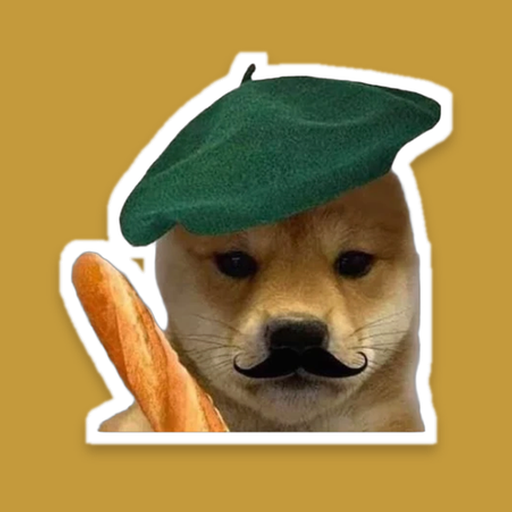
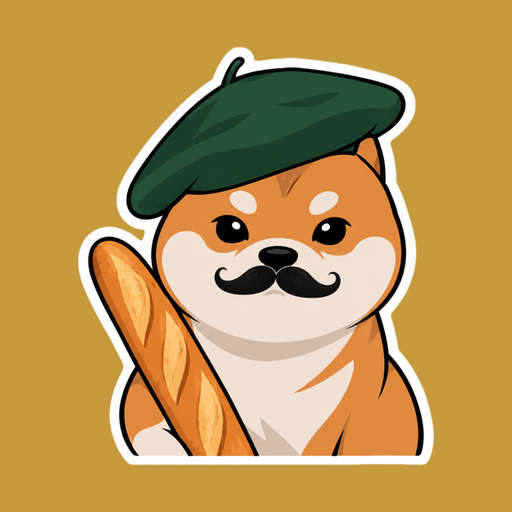
Replace the mascot with the original illustration, in three poses
The beret-and-baguette pose is the app's face (home, Premium, launcher
icon, widget, store graphics); the sunglasses pose plays the
celebrations; the thinking pose shows while the AI works and on the
translator's first screen. scripts/cut_mascot.py cuts each pose out of
its gold background.

diff --git a/lib/core/widgets/mascot.dart b/lib/core/widgets/mascot.dart
@@ -5,32 +5,55 @@ import 'package:flutter_animate/flutter_animate.dart';
 
 import 'package:french_pass/core/theme/app_theme.dart';
 
-/// The FrenchPass mascot: a shiba in a beret, with a moustache and a
-/// baguette, cut out as a sticker.
+/// The mascot's three moods, one per moment.
+enum MascotPose {
+  /// Beret and baguette: the app's face (home, Premium, icon, widget).
+  baguette('assets/images/mascot.png', 'Perrito francés con boina y baguette'),
+
+  /// Sunglasses: something earned (a word said well, a lesson finished).
+  cool('assets/images/mascot_cool.png', 'Perrito francés con gafas de sol'),
+
+  /// Reading glasses, paw on chin: the AI is working, or there is
+  /// something to think about.
+  thinking('assets/images/mascot_thinking.png',
+      'Perrito francés pensando, con gafas');
+
+  final String asset;
+  final String label;
+  const MascotPose(this.asset, this.label);
+}
+
+/// The FrenchPass mascot: a shiba in a beret with a moustache, cut out as a
+/// sticker.
 ///
-/// It only shows up when the learner has earned it -- a word said clearly,
-/// a conversation finished -- so it stays a reward rather than wallpaper.
+/// It shows up at moments that mean something -- a word said clearly, a
+/// conversation finished, the AI thinking -- so it never turns into
+/// wallpaper.
 class MascotSticker extends StatelessWidget {
   final double size;
+  final MascotPose pose;
 
   /// Resting tilt in radians; stickers are never stuck on perfectly
   /// straight.
   final double tilt;
 
-  const MascotSticker({super.key, this.size = 96, this.tilt = -0.08});
-
-  static const asset = 'assets/images/mascot.png';
+  const MascotSticker({
+    super.key,
+    this.size = 96,
+    this.pose = MascotPose.baguette,
+    this.tilt = -0.08,
+  });
 
   @override
   Widget build(BuildContext context) {
     return Transform.rotate(
       angle: tilt,
       child: Image.asset(
-        asset,
+        pose.asset,
         width: size,
         height: size,
         filterQuality: FilterQuality.medium,
-        semanticLabel: 'Perrito francés con boina y baguette',
+        semanticLabel: pose.label,
       ),
     );
   }
@@ -76,7 +99,7 @@ class MascotCelebration extends StatelessWidget {
                     ),
               ),
             ),
-          MascotSticker(size: size),
+          MascotSticker(size: size, pose: MascotPose.cool),
         ],
       ),
     );
@@ -128,8 +151,8 @@ class _Bubble extends StatelessWidget {
   Widget build(BuildContext context) {
     final p = context.palette;
     return Container(
-      padding:
-          const EdgeInsets.symmetric(horizontal: Insets.lg, vertical: Insets.sm),
+      padding: const EdgeInsets.symmetric(
+          horizontal: Insets.lg, vertical: Insets.sm),
       decoration: BoxDecoration(
         color: p.gold,
         borderRadius: BorderRadius.circular(Radii.pill),

diff --git a/lib/features/tutor/presentation/widgets/study_widgets.dart b/lib/features/tutor/presentation/widgets/study_widgets.dart
@@ -3,6 +3,7 @@ import 'package:flutter_animate/flutter_animate.dart';
 
 import 'package:french_pass/core/theme/app_theme.dart';
 import 'package:french_pass/core/widgets/app_widgets.dart';
+import 'package:french_pass/core/widgets/mascot.dart';
 import 'package:french_pass/core/widgets/tts_playback_mixin.dart';
 import 'package:french_pass/features/tutor/domain/saved_session.dart';
 import 'package:french_pass/features/tutor/presentation/widgets/phrase_practice.dart';
@@ -327,35 +328,37 @@ class StudySkeleton extends StatelessWidget {
           ),
         );
     final calm = MediaQuery.disableAnimationsOf(context);
-    final body = Semantics(
+    final bars = Column(
+      crossAxisAlignment: CrossAxisAlignment.start,
+      children: [
+        bar(0.9, 16),
+        bar(0.6, 16),
+        const SizedBox(height: Insets.lg),
+        bar(1, 56),
+        bar(1, 56),
+      ],
+    );
+    return Semantics(
       label: 'Analizando la frase',
       child: Column(
         crossAxisAlignment: CrossAxisAlignment.start,
         children: [
           Row(
             children: [
-              SizedBox(
-                width: 14,
-                height: 14,
-                child: CircularProgressIndicator(strokeWidth: 2, color: p.gold),
-              ),
+              const MascotSticker(size: 44, pose: MascotPose.thinking, tilt: 0),
               const SizedBox(width: Insets.sm),
               Text('Analizando la frase…', style: context.texts.bodySmall),
             ],
           ),
           const SizedBox(height: Insets.lg),
-          bar(0.9, 16),
-          bar(0.6, 16),
-          const SizedBox(height: Insets.lg),
-          bar(1, 56),
-          bar(1, 56),
+          if (calm)
+            bars
+          else
+            bars.animate(onPlay: (c) => c.repeat()).shimmer(
+                duration: 1400.ms, color: p.gold.withValues(alpha: 0.12)),
         ],
       ),
     );
-    if (calm) return body;
-    return body
-        .animate(onPlay: (c) => c.repeat())
-        .shimmer(duration: 1400.ms, color: p.gold.withValues(alpha: 0.12));
   }
 }
 

diff --git a/lib/features/translator/presentation/pages/translator_page.dart b/lib/features/translator/presentation/pages/translator_page.dart
@@ -7,6 +7,7 @@ import 'package:french_pass/core/di/injection.dart';
 import 'package:french_pass/core/services/tts_service.dart';
 import 'package:french_pass/core/theme/app_theme.dart';
 import 'package:french_pass/core/widgets/app_widgets.dart';
+import 'package:french_pass/core/widgets/mascot.dart';
 import 'package:french_pass/core/widgets/tts_playback_mixin.dart';
 import 'package:french_pass/features/premium/data/usage_service.dart';
 import 'package:french_pass/features/translator/data/translator_repository.dart';
@@ -140,12 +141,7 @@ class _TranslatorViewState extends State<_TranslatorView> {
                         onDelete: context.read<TranslatorCubit>().delete,
                       )
                     else
-                      const InfoNotice(
-                        icon: Icons.lightbulb_outline_rounded,
-                        message: 'Prueba con algo que dirías hoy: "Quiero '
-                            'un café con leche, por favor" o "Llego tarde '
-                            'porque había tráfico".',
-                      ),
+                      const _FirstTime(),
                   ],
                 ),
               ),
@@ -485,4 +481,26 @@ class _History extends StatelessWidget {
       ],
     );
   }
+}
+
+/// Before the first translation: an example to copy the idea from.
+class _FirstTime extends StatelessWidget {
+  const _FirstTime();
+
+  @override
+  Widget build(BuildContext context) => AppCard(
+        child: Row(
+          children: [
+            const MascotSticker(size: 64, pose: MascotPose.thinking, tilt: 0),
+            const SizedBox(width: Insets.md),
+            Expanded(
+              child: Text(
+                'Prueba con algo que dirías hoy: "Quiero un café con leche, '
+                'por favor" o "Llego tarde porque había tráfico".',
+                style: context.texts.bodySmall,
+              ),
+            ),
+          ],
+        ),
+      );
 }

diff --git a/lib/features/tutor/presentation/pages/tutor_session_page.dart b/lib/features/tutor/presentation/pages/tutor_session_page.dart
@@ -226,11 +226,7 @@ class _Connecting extends StatelessWidget {
       children: [
         Row(
           children: [
-            SizedBox(
-              width: 18,
-              height: 18,
-              child: CircularProgressIndicator(strokeWidth: 2, color: p.gold),
-            ),
+            const MascotSticker(size: 52, pose: MascotPose.thinking, tilt: 0),
             const SizedBox(width: Insets.md),
             Text('Conectando con tu tutor…', style: context.texts.bodyMedium),
           ],

diff --git a/scripts/cut_mascot.py b/scripts/cut_mascot.py
@@ -1,0 +1,65 @@
+"""Cuts a mascot sticker out of its flat background.
+
+usage: python scripts/cut_mascot.py <input.png> <output.png> [size]
+
+The artwork is a sticker (white outline) on a flat gold field. Everything
+connected to the image border that is close to that gold becomes
+transparent; the white outline stops the fill, so nothing inside the
+sticker is touched. The result is cropped to the sticker and scaled so its
+longer side is `size` pixels (default 512).
+"""
+import sys
+from collections import deque
+
+from PIL import Image, ImageFilter
+
+src, dst = sys.argv[1], sys.argv[2]
+size = int(sys.argv[3]) if len(sys.argv) > 3 else 512
+
+image = Image.open(src).convert('RGBA')
+w, h = image.size
+px = image.load()
+
+# The field's colour, sampled from the four corners.
+corners = [px[2, 2], px[w - 3, 2], px[2, h - 3], px[w - 3, h - 3]]
+bg = tuple(sum(c[i] for c in corners) // 4 for i in range(3))
+TOLERANCE = 70 ** 2
+
+
+def is_bg(c):
+    return sum((c[i] - bg[i]) ** 2 for i in range(3)) <= TOLERANCE
+
+
+mask = Image.new('L', (w, h), 255)
+m = mask.load()
+queue = deque()
+for x in range(w):
+    queue.append((x, 0))
+    queue.append((x, h - 1))
+for y in range(h):
+    queue.append((0, y))
+    queue.append((w - 1, y))
+while queue:
+    x, y = queue.popleft()
+    if m[x, y] == 0 or not is_bg(px[x, y]):
+        continue
+    m[x, y] = 0
+    if x > 0:
+        queue.append((x - 1, y))
+    if x < w - 1:
+        queue.append((x + 1, y))
+    if y > 0:
+        queue.append((x, y - 1))
+    if y < h - 1:
+        queue.append((x, y + 1))
+
+# Eat the gold fringe the anti-aliased outline leaves, then soften the edge.
+mask = mask.filter(ImageFilter.MinFilter(3)).filter(ImageFilter.GaussianBlur(1.2))
+image.putalpha(mask)
+image = image.crop(mask.getbbox())
+
+scale = size / max(image.size)
+image = image.resize((round(image.width * scale), round(image.height * scale)),
+                     Image.LANCZOS)
+image.save(dst, optimize=True)
+print(dst, image.size)

diff --git a/docs/play-store/README.md b/docs/play-store/README.md
@@ -178,10 +178,6 @@ necesitan conexión a internet.
 
 ## 4. Decisiones pendientes
 
-- **Derechos de la imagen del perrito.** Es una foto que circula como meme.
-  Si no es tuya ni tienes permiso, Play puede rechazar la app por propiedad
-  intelectual. La salida segura es una ilustración propia del mismo
-  personaje.
 - **Medir el costo real** durante la prueba cerrada (Google Cloud ›
   Facturación › Informes) y ajustar minutos o precios si hace falta.
 
